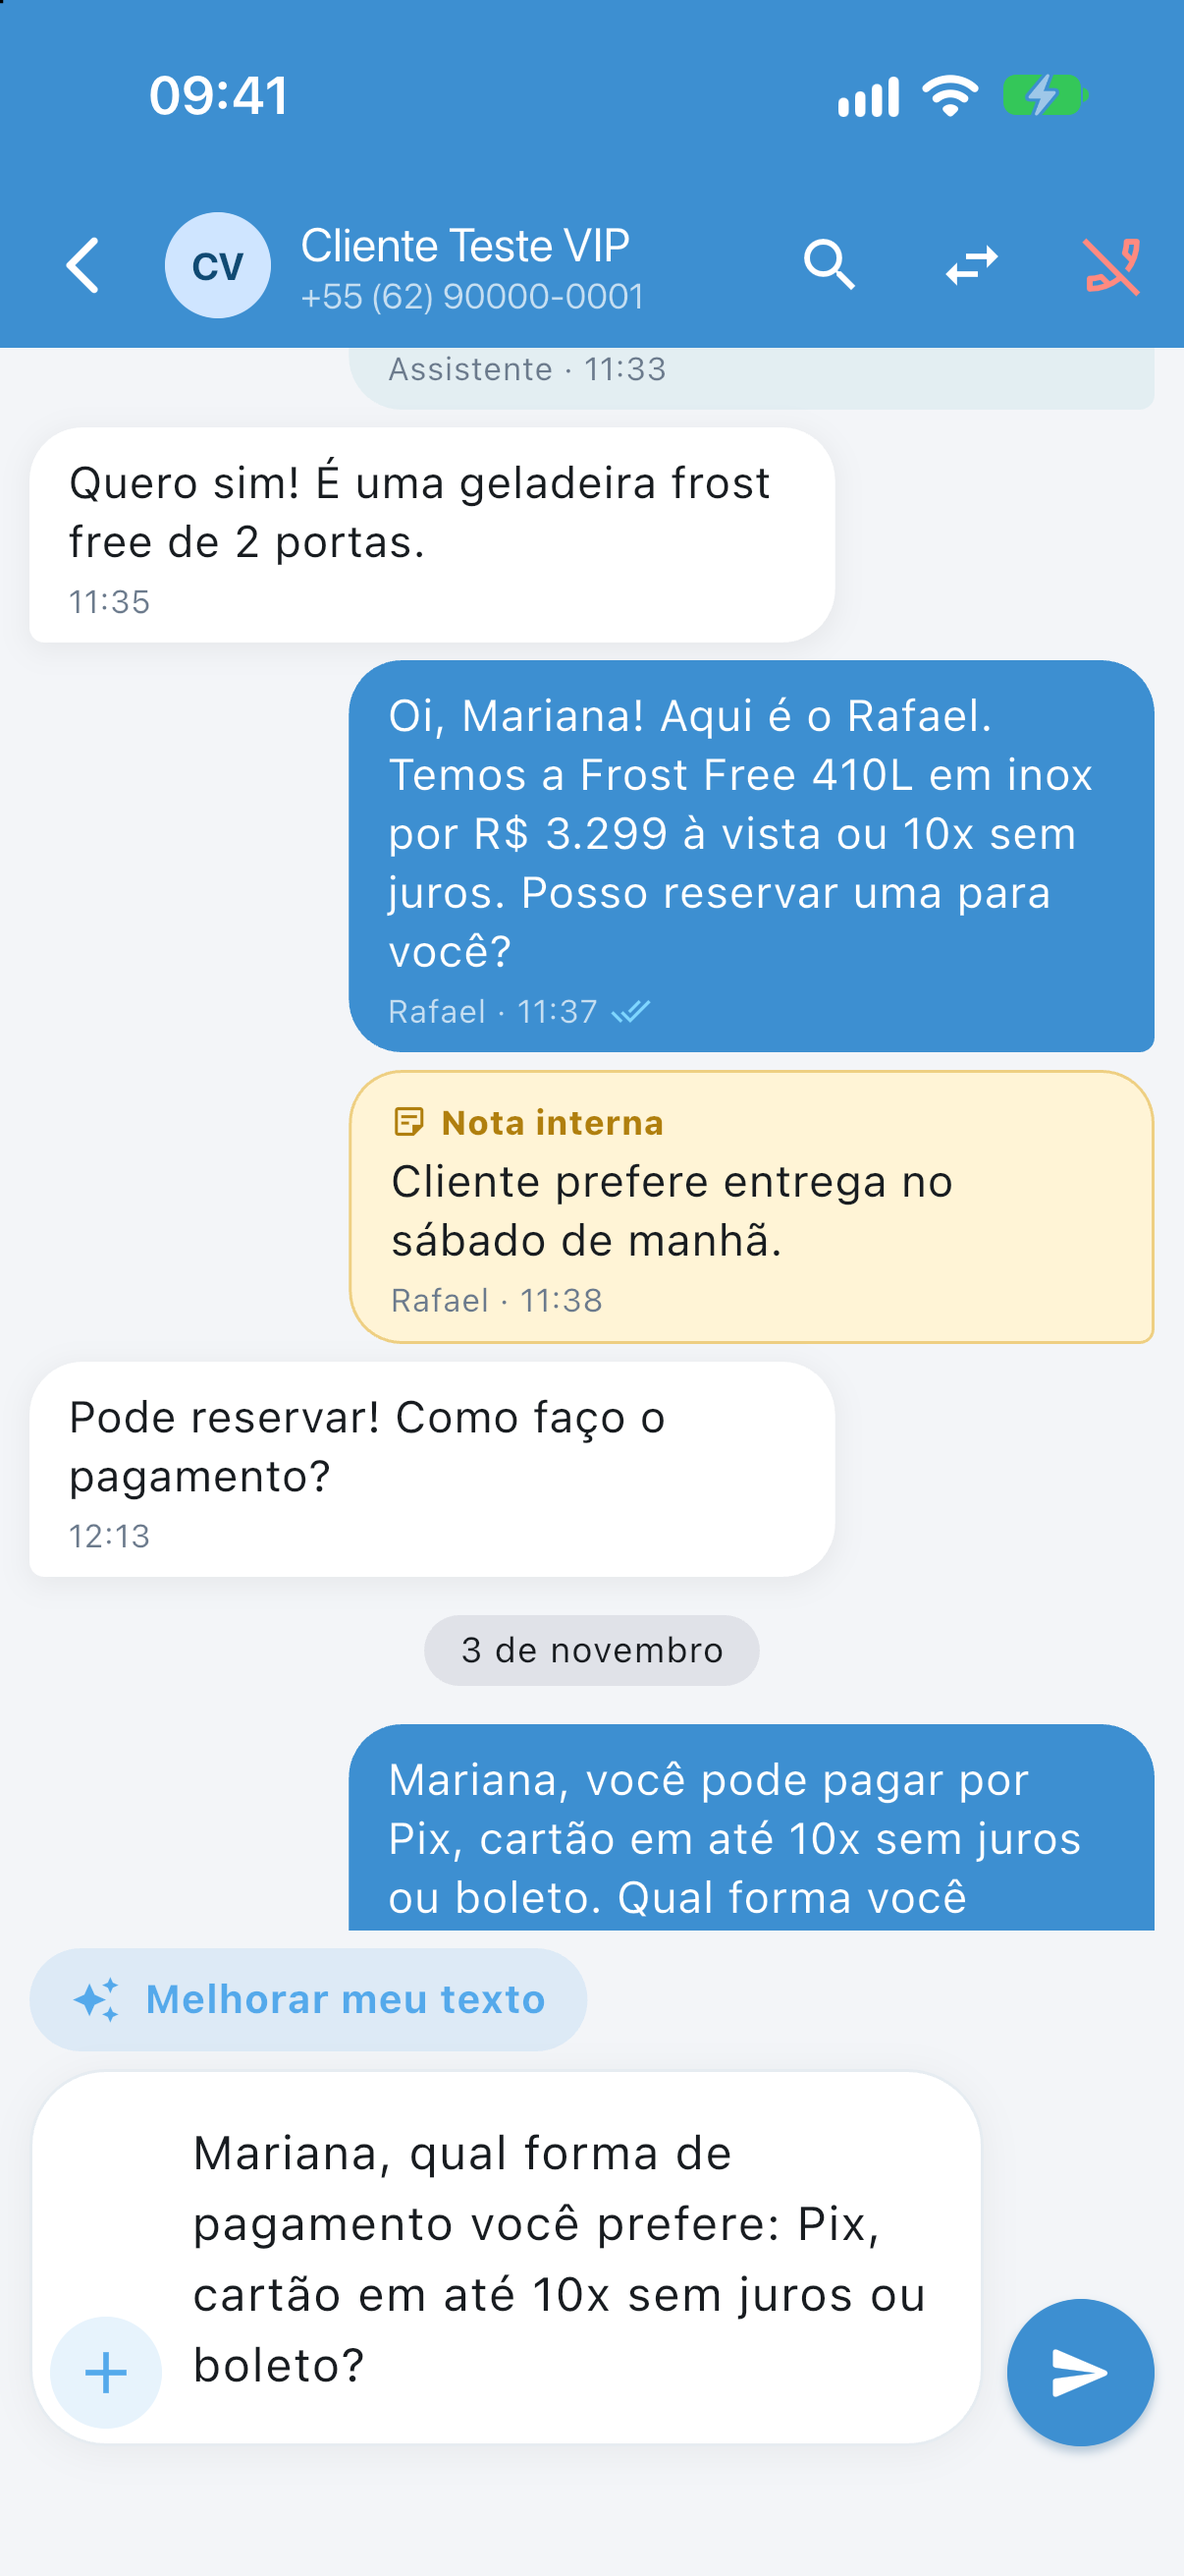
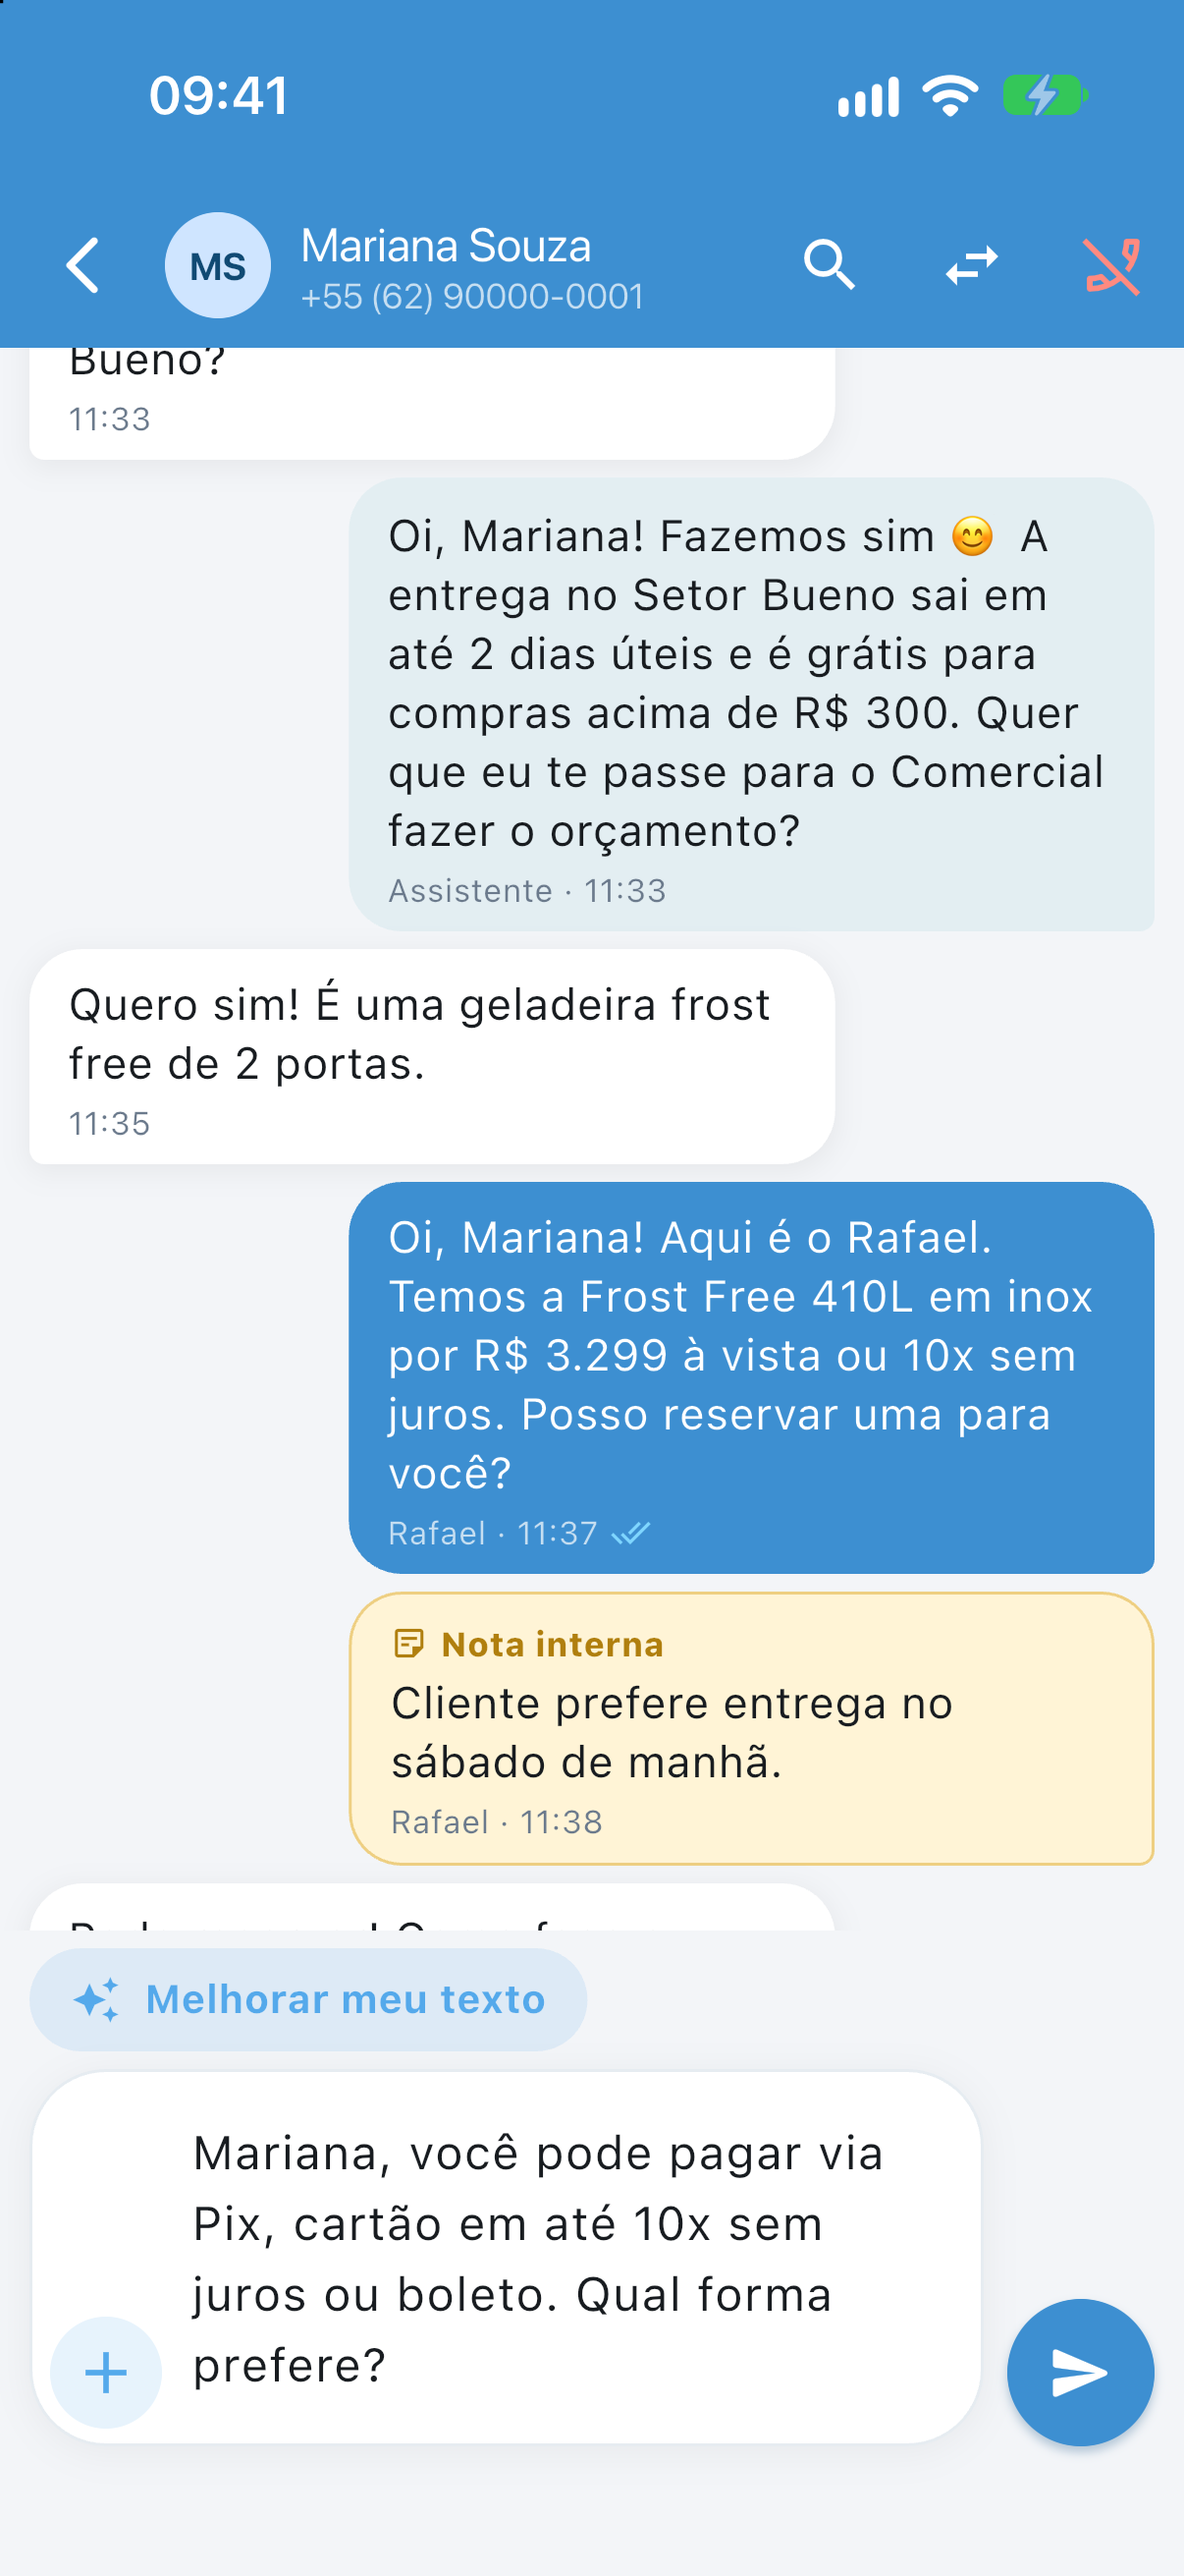
Capturas 03 e 07 refeitas com Mariana Souza no demo

diff --git a/SETUP-MAC.md b/SETUP-MAC.md
@@ -206,3 +206,7 @@ e enviar para revisão. O Windows conduz esta parte com o Alexandre no App Store
   "Cliente Teste VIP") e saiu a mensagem de teste "não enviada" de hoje da conversa dela. **Pedido ao Mac:**
   refazer as capturas **03 e 07** (mesmo roteiro; na 07, apagar a sugestão anterior antes e gerar de novo) e
   conferir que o nome no topo é "Mariana Souza". As demais ficam como estão.
+- **2026-11-03 (Mac)** — Capturas **03 e 07 refeitas** com o demo acertado: topo "Mariana Souza" nas duas. 03 =
+  respostas rápidas ("Endereço da loja", "Horário de atendimento"); 07 = sugestão gerada de novo ("Mariana, você
+  pode pagar via Pix, cartão em até 10x sem juros ou boleto. Qual forma prefere?") com "Melhorar meu texto". A
+  sugestão ficou só na caixa (apagada no fim, nada enviado). Demais capturas inalteradas.
